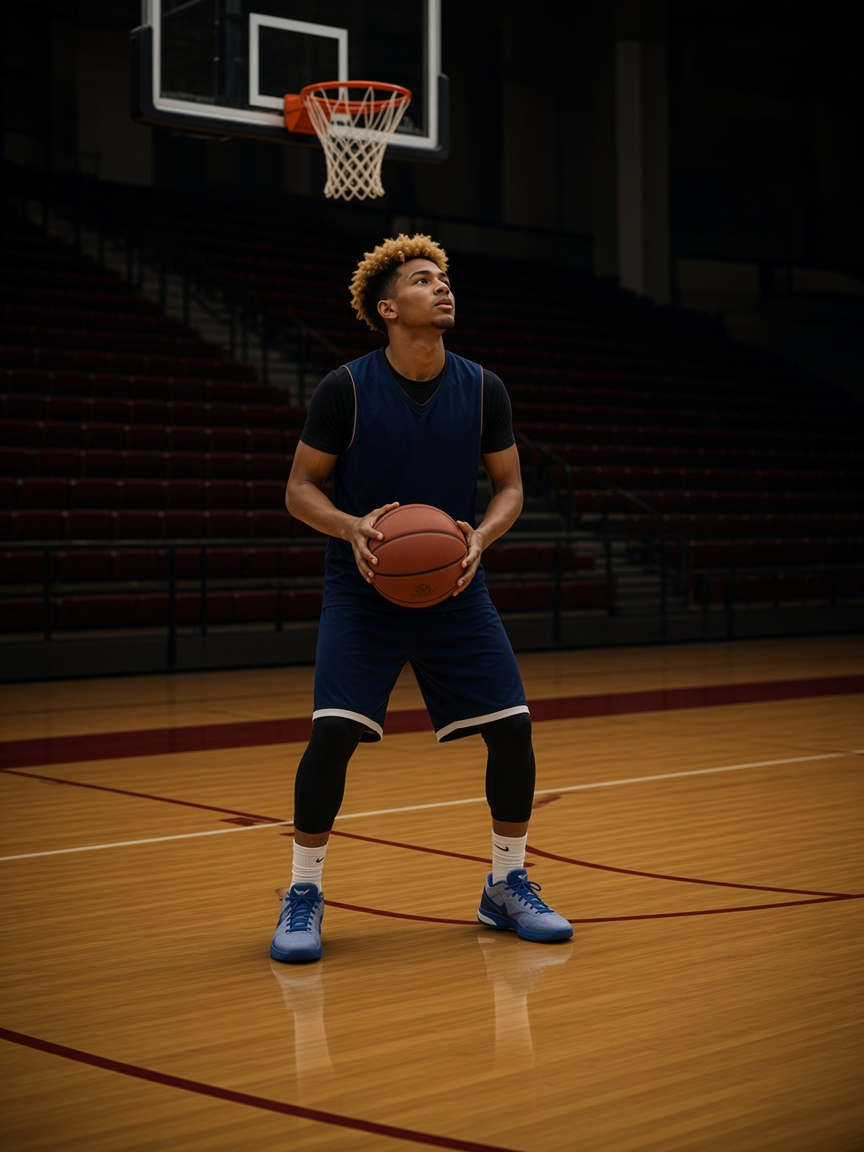
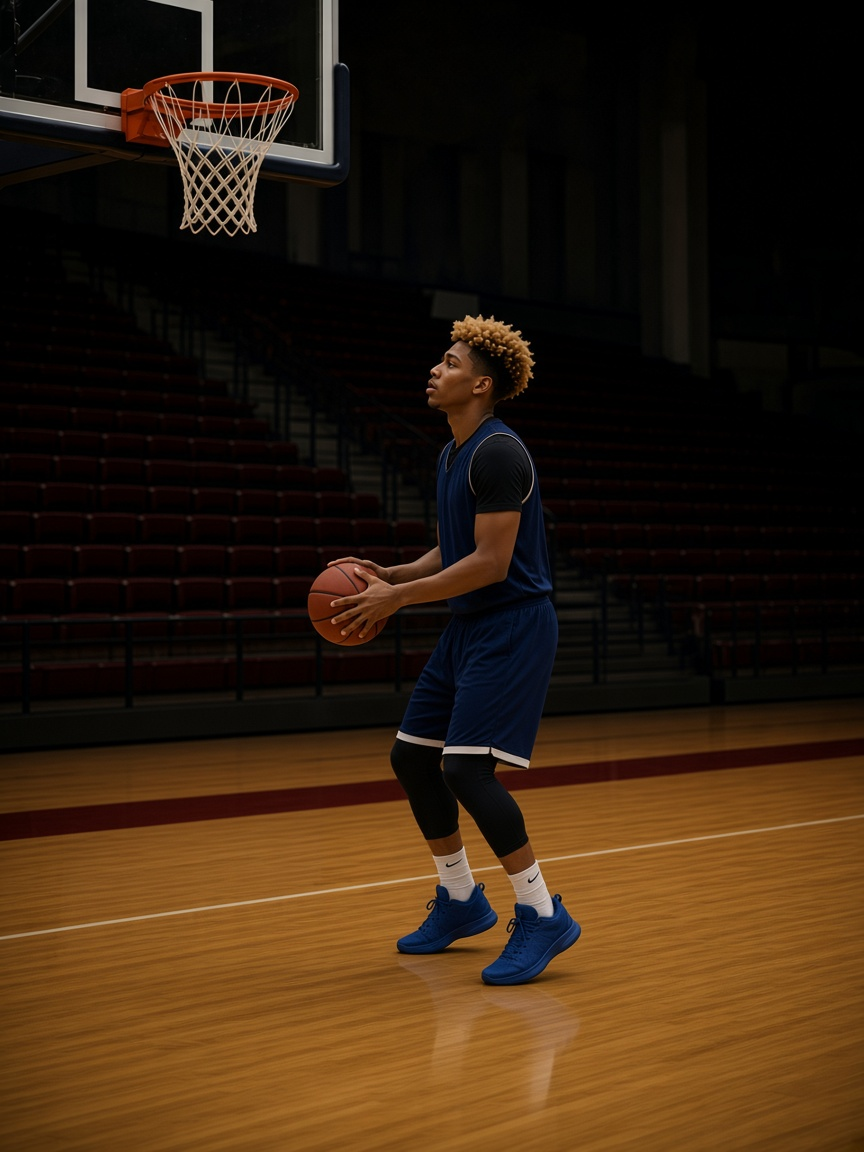
Turn the private still so he faces the rim in front of him.

diff --git a/programs.html b/programs.html
@@ -23,7 +23,7 @@
   <link href="https://fonts.googleapis.com/css2?family=DM+Mono:wght@400;500&family=Instrument+Serif:ital@0;1&family=Outfit:wght@300;400;500;600&display=swap" rel="stylesheet">
   <link rel="stylesheet" href="css/site.css?v=12">
   <meta http-equiv="Cache-Control" content="no-cache, no-store, must-revalidate">
-  <link rel="stylesheet" href="css/shell.css?v=50">
+  <link rel="stylesheet" href="css/shell.css?v=51">
   <script>document.documentElement.classList.add("js");</script>
 </head>
 <body class="app" data-page="programs">
@@ -73,7 +73,7 @@
           <figcaption>Assess · <span data-shot-label>Catch</span></figcaption>
         </figure>
         <figure class="still shot-reel live-reel" data-shot>
-          <img class="is-on" src="assets/private-1-alone.jpg" alt="One player, alone with the ball." data-label="Alone">
+          <img class="is-on" src="assets/private-1-alone.jpg?v=2" alt="One player, alone with the ball." data-label="Alone">
           <img src="assets/private-2-form.jpg" alt="The form, alone with the ball." data-label="Form">
           <img src="assets/private-3-rise.jpg" alt="He rises in the private session." data-label="Rise">
           <img src="assets/private-4-finish.jpg" alt="He finishes in the private session." data-label="Finish">

diff --git a/css/shell.css b/css/shell.css
@@ -1175,7 +1175,8 @@ body.app .board-filters .chip[aria-pressed="true"] {
     background: rgba(0, 0, 0, 0.28);
   }
   .stage-fill .rooms a > b { margin-top: auto; padding-top: 0.35rem; }
-  body[data-page="programs"] .top-row .still img { height: 210px; }
+  body[data-page="programs"] .top-row .still img { height: 280px; }
+  body[data-page="programs"] .top-row figure:nth-child(3) img { object-position: 32% 16%; }
   .stage-fill .rooms a:hover { border-color: rgba(224, 122, 47, 0.7); }
   .stage-fill .week-board { flex: 1; align-content: stretch; }
   .stage-fill .price-layout { flex: none; min-height: 0; align-items: stretch; }
